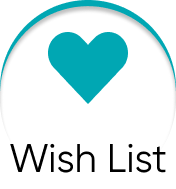
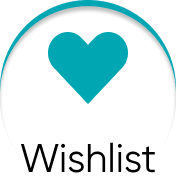
wishlist text changed, styles of home screen changed, stars hided

Changed region(s): [[0.0568, 0.7407, 0.9659, 0.9259]]

diff --git a/src/screens/Home/Home.tsx b/src/screens/Home/Home.tsx
@@ -36,8 +36,10 @@ const HomeScreen: React.FC = () => {
   const activeSliderImages = homeData?.banners?.filter((b: any) => b.placementKey === 'app_home_top_banner') || [];
   const activeGoatDeals = homeData?.banners?.filter((b: any) => b.placementKey === 'app_home_cat_top_sidebyside_four') || [];
   const activeFirstProducts = homeData?.firstProductBlock?.items || [];
+  console.log("activeFirstProducts", activeFirstProducts)
   const activeSecondProducts = homeData?.secondProductBlock?.items || [];
-  const activeBestSelling = homeData?.secondProductBlock?.items || [];
+  console.log("activeSecondProducts", activeSecondProducts)
+  const activeBestSelling = homeData?.showcaseSlider || [];
   const activeTopBrands = homeData?.banners?.filter((b: any) => b.placementKey === 'app_top_brands') || [];
 
   const gShockMainBanner = homeData?.banners?.find((b: any) => b.placementKey === 'app_home_bottom_showcase_banner_image');
@@ -199,7 +201,7 @@ const HomeScreen: React.FC = () => {
         <Text style={[styles.caption]} numberOfLines={3}>{item.prName || item.title}</Text>
 
         <View>
-          <Rating
+          {/* <Rating
             type='custom'
             readonly
             startingValue={item.rating || 4}
@@ -209,7 +211,7 @@ const HomeScreen: React.FC = () => {
             ratingBackgroundColor={colors.lightGrey}
             tintColor={colors.white}
             style={{ alignSelf: 'flex-start', marginVertical: 6 }}
-          />
+          /> */}
 
           <View style={{ flexDirection: 'row', justifyContent: 'space-between', alignItems: 'center', marginTop: 4, gap: 2 }}>
             <View style={styles.pricePill}>
@@ -272,7 +274,7 @@ const HomeScreen: React.FC = () => {
 
     return (
       <View style={styles.sectionContainer}>
-        <Text style={[styles.sectionTitle, localStyle.sectionTitleAlignment]}>BEST SELLING</Text>
+        <Text style={[styles.sectionTitle, localStyle.sectionTitleAlignment]}>IN THE SPOTLIGHT</Text>
 
         {/* Single card — prev/next images peek inside at 50% opacity */}
         <View style={localStyle.bestSellingCard} {...panResponder.panHandlers}>
@@ -280,7 +282,7 @@ const HomeScreen: React.FC = () => {
           {/* Prev item — left side, 50% opacity */}
           {bestSellingIndex > 0 && (
             <Image
-              source={activeBestSelling[bestSellingIndex - 1].featuredImage ? { uri: CONFIG.image_base_url + activeBestSelling[bestSellingIndex - 1].featuredImage } : activeBestSelling[bestSellingIndex - 1].image}
+              source={activeBestSelling[bestSellingIndex - 1].image ? { uri: CONFIG.image_base_url + activeBestSelling[bestSellingIndex - 1].image } : activeBestSelling[bestSellingIndex - 1].image}
               style={[localStyle.sideImage, localStyle.sideImageLeft]}
               resizeMode="contain"
             />
@@ -289,7 +291,7 @@ const HomeScreen: React.FC = () => {
           {/* Next item — right side, 50% opacity */}
           {bestSellingIndex < activeBestSelling?.length - 1 && (
             <Image
-              source={activeBestSelling[bestSellingIndex + 1].featuredImage ? { uri: CONFIG.image_base_url + activeBestSelling[bestSellingIndex + 1].featuredImage } : activeBestSelling[bestSellingIndex + 1].image}
+              source={activeBestSelling[bestSellingIndex + 1].image ? { uri: CONFIG.image_base_url + activeBestSelling[bestSellingIndex + 1].image } : activeBestSelling[bestSellingIndex + 1].image}
               style={[localStyle.sideImage, localStyle.sideImageRight]}
               resizeMode="contain"
             />
@@ -297,7 +299,7 @@ const HomeScreen: React.FC = () => {
 
           {/* Center (active) image with slide + scale animation */}
           <Animated.Image
-            source={activeBestSelling[bestSellingIndex]?.featuredImage ? { uri: CONFIG.image_base_url + activeBestSelling[bestSellingIndex].featuredImage } : activeBestSelling[bestSellingIndex].image}
+            source={activeBestSelling[bestSellingIndex]?.image ? { uri: CONFIG.image_base_url + activeBestSelling[bestSellingIndex].image } : activeBestSelling[bestSellingIndex].image}
             style={[localStyle.centerImage, { transform: [{ translateX: centerTranslateX }, { scale: centerScale }] }]}
             resizeMode="contain"
           />
@@ -405,7 +407,7 @@ const HomeScreen: React.FC = () => {
 
         {/* EXPLORE */}
         {
-          homeData?.firstProductBlock?.items?.length > 0 &&
+          activeFirstProducts.length > 0 &&
           <View style={styles.sectionContainer}>
             <Text style={[styles.sectionTitle, localStyle.sectionTitleAlignment]}>{homeData?.firstProductBlock?.title}</Text>
             <FlatList
@@ -498,13 +500,16 @@ const HomeScreen: React.FC = () => {
                 </React.Fragment>
               ))}
             </ScrollView> */}
-            <ClickForMoreButton onPress={() => { }} title="View all Flash Deals" />
+            <View style={{ marginTop: -60, position: 'relative' }}>
+              <ClickForMoreButton onPress={() => { }} title="View all Flash Deals" />
+            </View>
+
           </View>
         )}
 
         {/* EXPLORE */}
         {
-          homeData?.secondProductBlock?.items?.length > 0 &&
+          activeSecondProducts.length > 0 &&
           <View style={styles.sectionContainer}>
             <Text style={[styles.sectionTitle, localStyle.sectionTitleAlignment]}>{homeData?.secondProductBlock?.title}</Text>
             <FlatList

diff --git a/src/assets/styles.ts b/src/assets/styles.ts
@@ -595,7 +595,7 @@ export const useCommonStyles = () => {
         },
 
         gShockSectionWrapper: {
-            backgroundColor: colour.black,
+            //backgroundColor: colour.black,
             marginTop: 40,
             paddingBottom: 30
         },
@@ -651,8 +651,8 @@ export const useCommonStyles = () => {
         },
 
         flashSaleContainer: {
-            backgroundColor: '#A4E8DF',
-            paddingBottom: 40,
+            //backgroundColor: '#A4E8DF',
+            paddingBottom: 20,
             marginTop: 20
         },
         hugeFlashText: {
@@ -666,7 +666,7 @@ export const useCommonStyles = () => {
         },
         podiumImageBackground: {
             width: width,
-            height: 700,
+            height: 720,
             resizeMode: 'cover',
             //opacity: 0.6
 

diff --git a/src/components/ProductCard/index.tsx b/src/components/ProductCard/index.tsx
@@ -107,9 +107,9 @@ const ProductCard: React.FC<ProductCardProps> = ({
                     {displayTitle}
                 </Text>
 
-                <View style={styles.ratingContainer}>
+                {/* <View style={styles.ratingContainer}>
                     {renderStars()}
-                </View>
+                </View> */}
 
                 <View style={styles.priceContainer}>
                     <Text style={styles.price}>₹{displayPrice}</Text>
